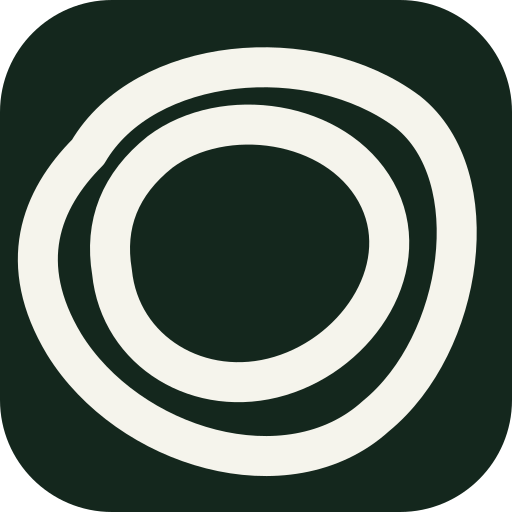
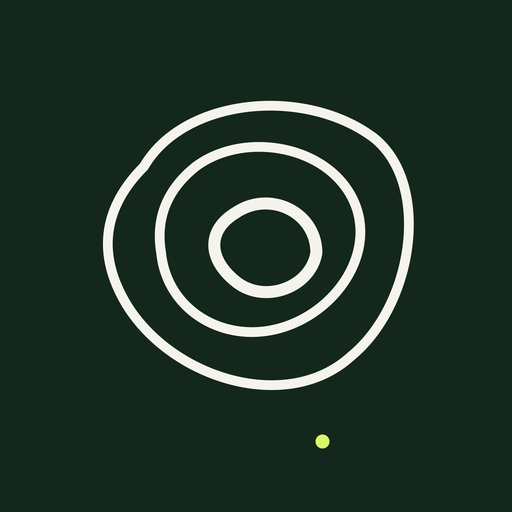
apply resolved Flurbo identity

diff --git a/apps/web/tests/production.test.ts b/apps/web/tests/production.test.ts
@@ -55,6 +55,9 @@ test('hosted HTTP serves guarded SPA routes, secure login and MetaMask-only subm
   await mkdir(join(directory,'brand'));
   await writeFile(join(directory,'brand','flurbo-social-landscape.png'),'landscape');
   await writeFile(join(directory,'brand','flurbo-social-portrait.png'),'portrait');
+  await writeFile(join(directory,'brand','flurbo-social-banner.png'),'banner');
+  await writeFile(join(directory,'brand','flurbo-profile-2026.png'),'profile');
+  await writeFile(join(directory,'favicon-contour.svg'),'<svg/>');
   const store = new SessionStore();
   const learningReport = {schema:'flurbo.learning-comparison.v1',input:'synthetic',changesExecutablePrices:false};
   const config = {previewAccess:null,testingOperatorAccount:signer.address.toLowerCase(),origin,rpcUrl:TESTNET.rpc,learningReport: learningReport as typeof learningReport | null, learningStatus: 'starting', androidAssetLinks: null as object[] | null};
@@ -117,12 +120,15 @@ test('hosted HTTP serves guarded SPA routes, secure login and MetaMask-only subm
     assert.equal((await request('/rehearsal-rules')).json().fixtures.length,4);
     assert.equal((await request('/rehearsal-rules')).json().fixtures[1].result,'NO');
     assert.equal((await request('/.env')).status,404);
-    for(const path of ['/brand/flurbo-social-landscape.png','/brand/flurbo-social-portrait.png']) {
+    for(const path of ['/brand/flurbo-social-landscape.png','/brand/flurbo-social-portrait.png','/brand/flurbo-social-banner.png','/brand/flurbo-profile-2026.png']) {
       const asset=await request(path);
       assert.equal(asset.status,200,path);
       assert.equal(asset.headers['content-type'],'image/png');
       assert.equal(asset.headers['cache-control'],'public, max-age=31536000, immutable');
     }
+    const favicon=await request('/favicon-contour.svg');
+    assert.equal(favicon.status,200);
+    assert.equal(favicon.headers['content-type'],'image/svg+xml');
     assert.equal((await request('/brand/not-public.png')).status,404);
     assert.equal((await request('/brand/../index.html')).status,404);
     assert.equal((await request('/api/network',undefined,'','evil.example')).status,421);

diff --git a/apps/web/index.html b/apps/web/index.html
@@ -10,17 +10,17 @@
     <meta property="og:title" content="Flurbo | Price the relationship" />
     <meta property="og:description" content="Individual and combined predictions priced from one shared pool. Invite-based Monad testnet using test assets only." />
     <meta property="og:url" content="https://flurbo.singu.online/" />
-    <meta property="og:image" content="https://flurbo.singu.online/brand/flurbo-social-landscape.png" />
-    <meta property="og:image:width" content="2400" />
-    <meta property="og:image:height" content="1350" />
-    <meta property="og:image:alt" content="Flurbo. Price the relationship. Individual and combined predictions priced from one shared pool." />
+    <meta property="og:image" content="https://flurbo.singu.online/brand/flurbo-social-banner.png" />
+    <meta property="og:image:width" content="3000" />
+    <meta property="og:image:height" content="1000" />
+    <meta property="og:image:alt" content="Flurbo information markets." />
     <meta name="twitter:card" content="summary_large_image" />
     <meta name="twitter:title" content="Flurbo | Price the relationship" />
     <meta name="twitter:description" content="Individual and combined predictions priced from one shared pool. Invite-based Monad testnet using test assets only." />
-    <meta name="twitter:image" content="https://flurbo.singu.online/brand/flurbo-social-landscape.png" />
+    <meta name="twitter:image" content="https://flurbo.singu.online/brand/flurbo-social-banner.png" />
     <title>flurbo | combine what you know</title>
-    <link rel="icon" type="image/svg+xml" href="/favicon.svg" />
-    <link rel="apple-touch-icon" href="/brand/flurbo-icon-512.png" />
+    <link rel="icon" type="image/svg+xml" href="/favicon-contour.svg" />
+    <link rel="apple-touch-icon" href="/brand/flurbo-profile-2026.png" />
   </head>
   <body>
     <div id="root"></div>

diff --git a/apps/web/src/components/BrandLogo.tsx b/apps/web/src/components/BrandLogo.tsx
@@ -6,12 +6,13 @@ type BrandLogoProps = {
 export default function BrandLogo({ inverse = false, className = '' }: BrandLogoProps) {
   return (
     <span className={`logo ${inverse ? 'logo-inverse' : ''} ${className}`.trim()} aria-label="flurbo">
-      <svg className="logo-mark" viewBox="0 0 64 64" aria-hidden="true" focusable="false">
+      <svg className="logo-mark" viewBox="0 0 70 72" aria-hidden="true" focusable="false">
         <g fill="none" stroke="currentColor" strokeLinecap="round" strokeLinejoin="round">
           <path strokeWidth="4.5" d="M11 19C18 7 39 5 51 14c10 8 7 29-4 38-11 10-31 4-39-9-6-10-3-18 3-24Z" />
           <path strokeWidth="4.5" d="M20 19c8-6 22-4 27 5 5 9-2 20-12 23-10 3-20-3-21-13-1-6 1-11 6-15Z" />
           <path strokeWidth="5.5" d="M27 27c6-4 14 0 14 7-1 6-9 9-14 5-5-4-5-9 0-12Z" />
         </g>
+        <circle className="logo-joint-state" cx="42" cy="67" r="1.55" />
       </svg>
       <span className="logo-wordmark" aria-hidden="true">flurbo</span>
     </span>

diff --git a/apps/web/src/styles.css b/apps/web/src/styles.css
@@ -41,6 +41,7 @@ button, a { -webkit-tap-highlight-color: transparent; }
 .brand-link { display: inline-flex; align-items: center; }
 .logo { display: inline-flex; align-items: center; gap: 9px; color: var(--forest); font-size: 25px; font-weight: 650; letter-spacing: -0.08em; line-height: 1; }
 .logo-mark { width: 30px; height: 30px; overflow: visible; }
+.logo-joint-state { fill: #d9f76d; stroke: none; }
 .logo-wordmark { display: block; }
 .logo-inverse { color: var(--ivory); }
 .main-nav { display: flex; align-items: center; gap: 26px; color: rgba(20, 39, 29, .78); font-size: 12px; letter-spacing: .01em; }
